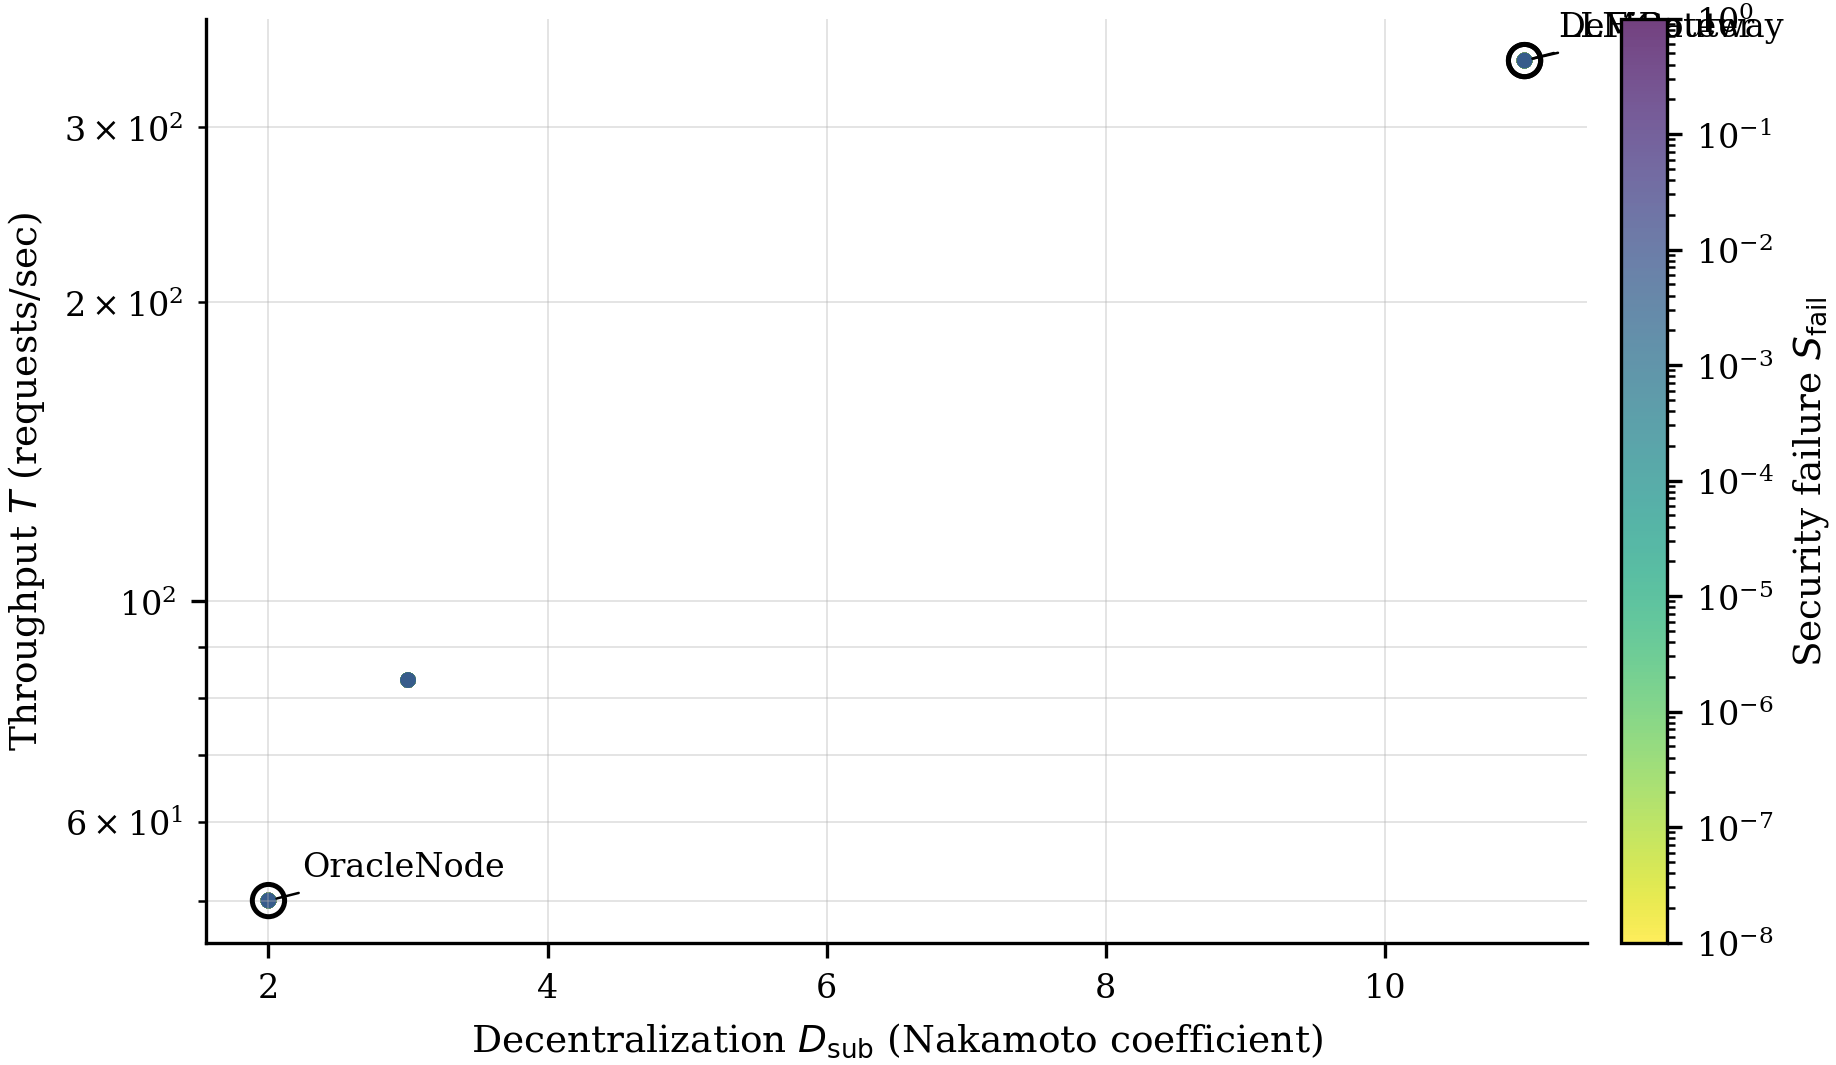
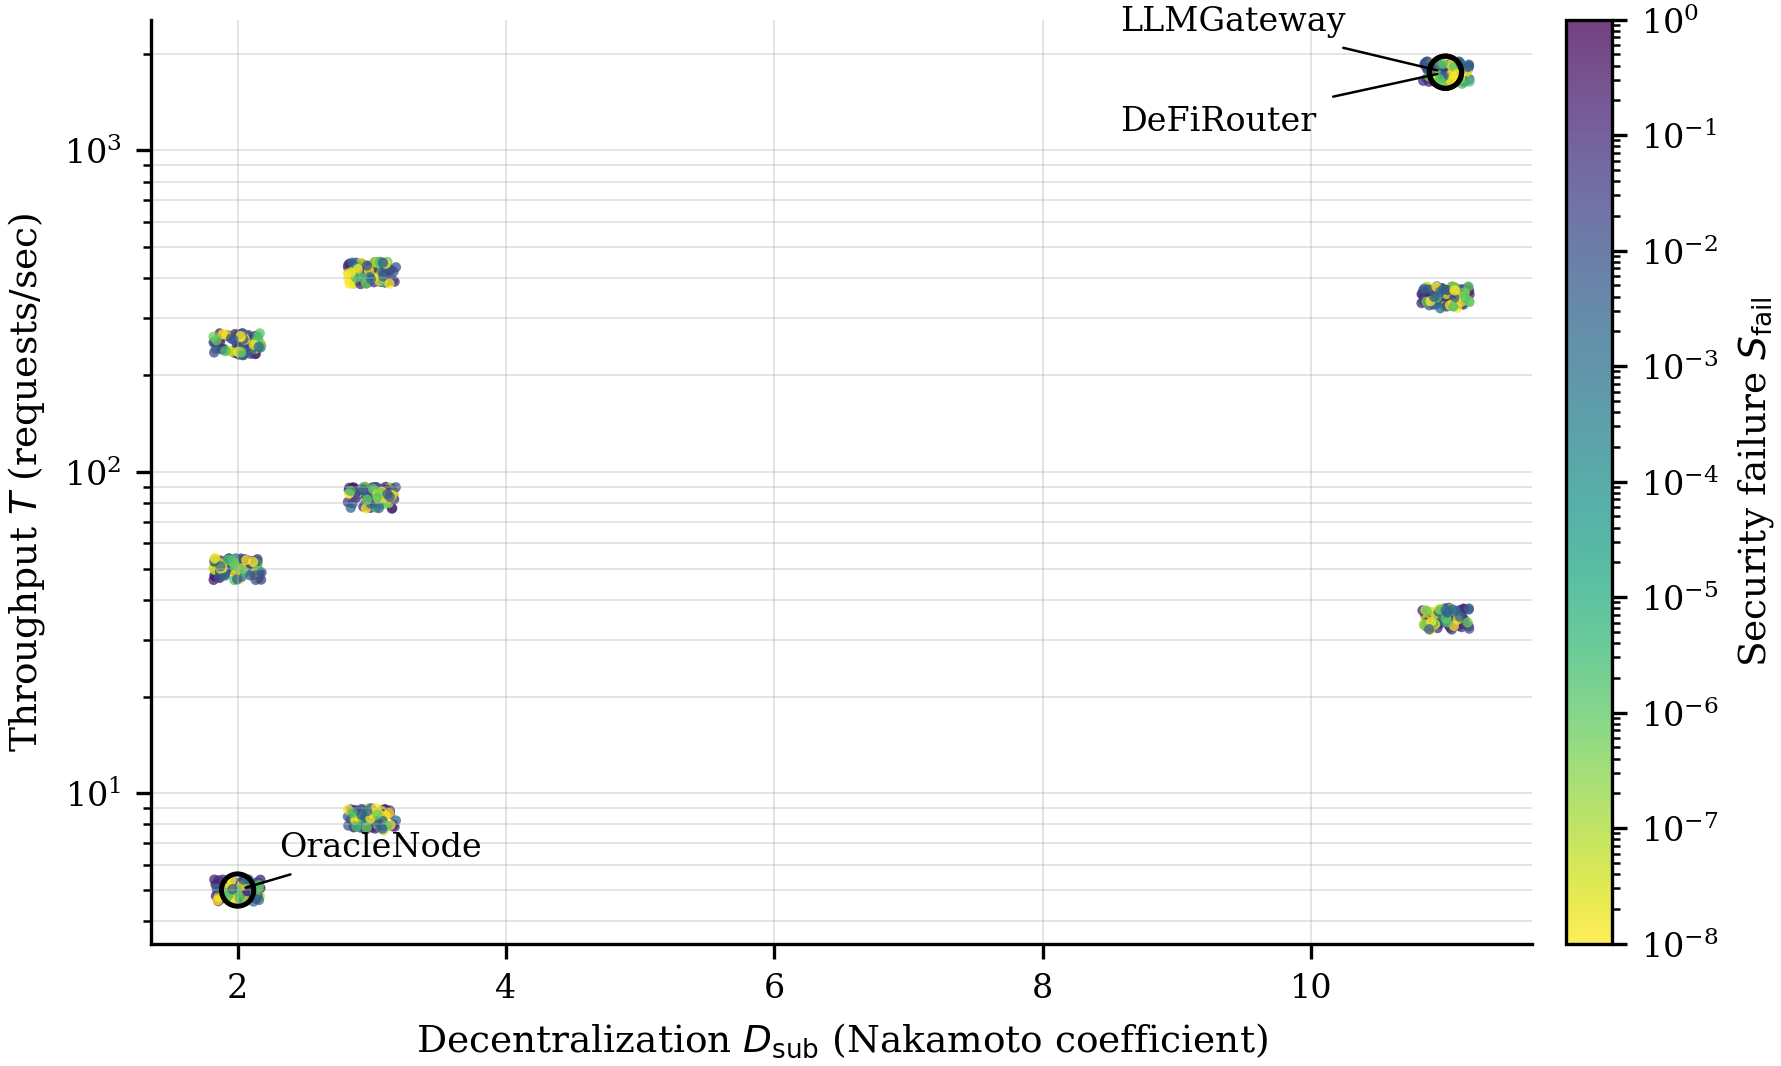
fix(tallymesh/eval): Fig. 3 layout — per-archetype xytext + smaller markers + richer sweep
Per-archetype label offsets so LLMGateway and DeFiRouter (which share the same
(D_sub, T) coordinate) no longer overprint at top-right; smaller scatter marker
size (s=6) so the now-729 sweep points read as a distribution rather than three
blocky stacks; seeded jitter so the S_fail color gradient is visible within
each (D_sub, T) cluster.

diff --git a/contracts/eval/plots/fig3_trilemma_frontier.py b/contracts/eval/plots/fig3_trilemma_frontier.py
@@ -2,6 +2,7 @@
 color=S_fail (log)."""
 from __future__ import annotations
 import csv
+import random
 import sys
 from pathlib import Path
 
@@ -20,23 +21,38 @@ S_MIN_FLOOR = 1e-12  # for log-scale colorbar; clamp values below this
 
 def main() -> None:
     apply()
+    # Seeded jitter: D_sub and throughput live on a coarse grid (3 K × 3 N = 9
+    # discrete (x,y) positions in the current sweep), so without a small
+    # perturbation the 729 points pile into 9 stacks that hide the S_fail
+    # gradient. Jitter is for visual readability only; archetype markers below
+    # are drawn from the unjittered archetype CSV.
+    rng = random.Random(0xE11)
     xs, ys, cs = [], [], []
     with SWEEP.open() as f:
         for r in csv.DictReader(f):
-            xs.append(int(r["D_sub"]))
-            ys.append(float(r["throughput_rps"]))
+            x = int(r["D_sub"]) + rng.uniform(-0.18, 0.18)
+            y = float(r["throughput_rps"]) * (1.0 + rng.uniform(-0.08, 0.08))
+            xs.append(x)
+            ys.append(y)
             cs.append(max(float(r["S_fail"]), S_MIN_FLOOR))
 
     fig, ax = plt.subplots(figsize=(DOUBLE_COLUMN_IN, TALL_HEIGHT_IN))
     sc = ax.scatter(xs, ys, c=cs, cmap="viridis_r", norm=LogNorm(vmin=1e-8, vmax=1.0),
-                    s=14, alpha=0.75, edgecolors="none")
+                    s=6, alpha=0.75, edgecolors="none")
     ax.set_yscale("log")
     ax.set_xlabel("Decentralization $D_{\\mathrm{sub}}$ (Nakamoto coefficient)")
     ax.set_ylabel("Throughput $T$ (requests/sec)")
     cbar = fig.colorbar(sc, ax=ax, pad=0.02)
     cbar.set_label("Security failure $S_{\\mathrm{fail}}$")
 
-    # Annotate the three archetypes.
+    # Annotate the three archetypes. LLMGateway and DeFiRouter resolve to the
+    # same (D_sub, T) point (same K and N, different f), so steer their labels
+    # to opposite sides to avoid overprint.
+    archetype_offsets = {
+        "LLMGateway": (-78, 10),
+        "OracleNode": (10, 8),
+        "DeFiRouter": (-78, -14),
+    }
     arch_xy = []
     with ARCH.open() as f:
         for r in csv.DictReader(f):
@@ -44,7 +60,8 @@ def main() -> None:
     for name, x, y in arch_xy:
         ax.annotate(
             name, (x, y),
-            xytext=(8, 6), textcoords="offset points",
+            xytext=archetype_offsets.get(name, (8, 6)),
+            textcoords="offset points",
             fontsize=8,
             arrowprops={"arrowstyle": "-", "linewidth": 0.6, "color": "black"},
         )
